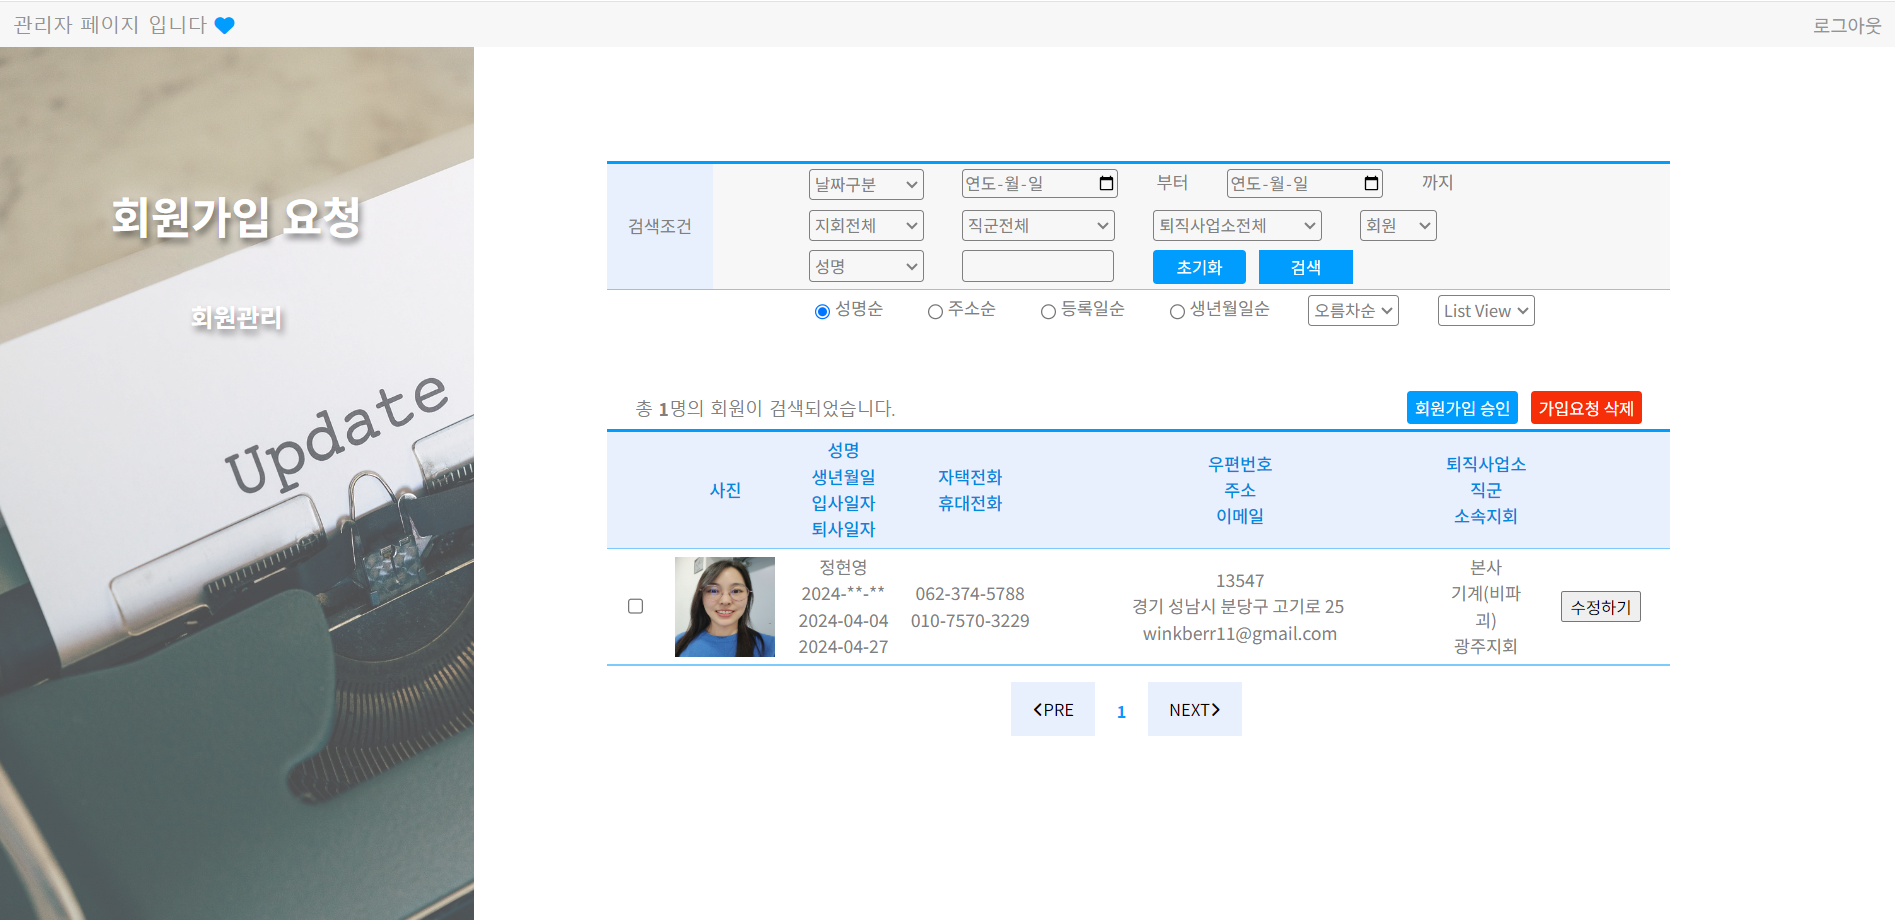
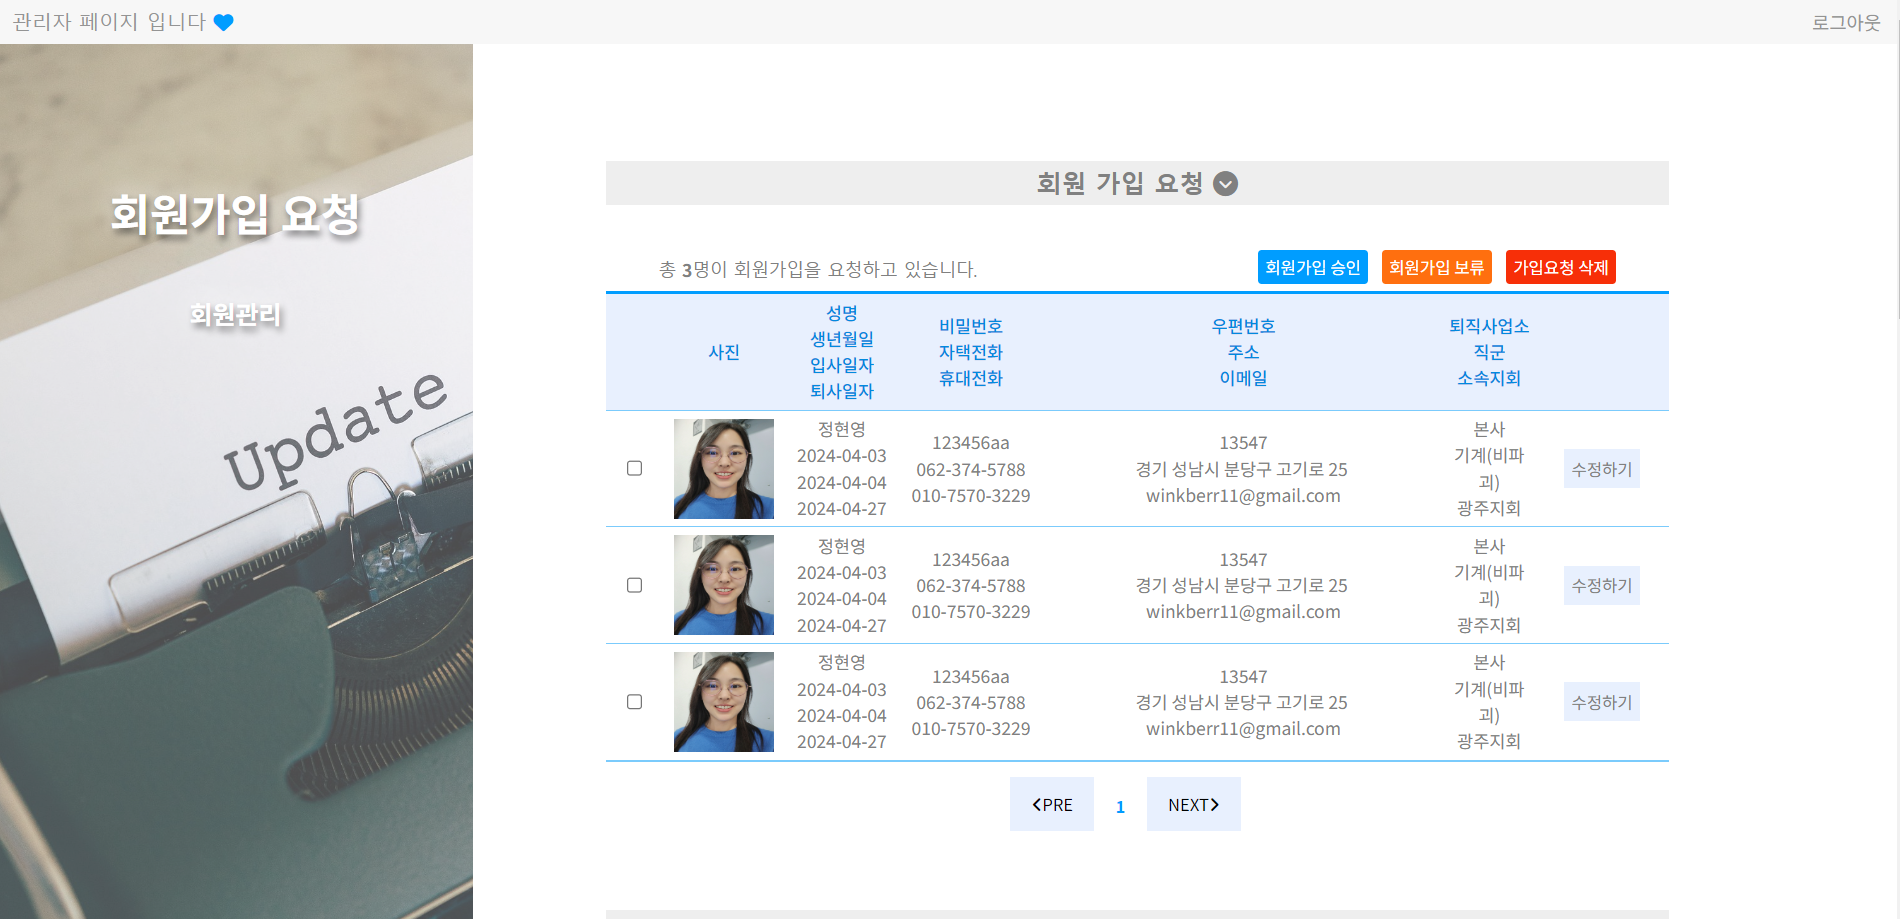
add

diff --git a/index.html b/index.html
@@ -602,8 +602,16 @@
                 <img src="img/kps/8회원가입추천검색어.png">
                 <p>관리자 페이지 - 회원 가입 요청</p>
                 <img src="img/kps/9관리자회원가입요청.png">
+                <p>관리자 페이지 - 회원 가입 승인 보류</p>
+                <img src="img/kps/9관리자회원가입요청가입승인보류.png">
                 <p>관리자 페이지 - 회원 관리</p>
                 <img src="img/kps/10관리자회원관리강등.png">
+                <p>관리자 페이지 - 회원 관리 (정보 수정)</p>
+                <img src="img/kps/10관리자회원관리정보수정.png">
+                <p>관리자 페이지 - 회원 관리 (엑셀 다운로드)</p>
+                <img src="img/kps/10관리자회원관리엑셀다운하기전검색.png">
+                <p>관리자 페이지 - 회원 관리 (엑셀 다운로드)</p>
+                <img src="img/kps/10관리자회원관리엑셀다운사진.png">
                 <p>정적 페이지 - 동우회 연혁</p>
                 <img src="img/kps/11연혁.png">
                 <p>정적 페이지 - 동우회 정관</p>
